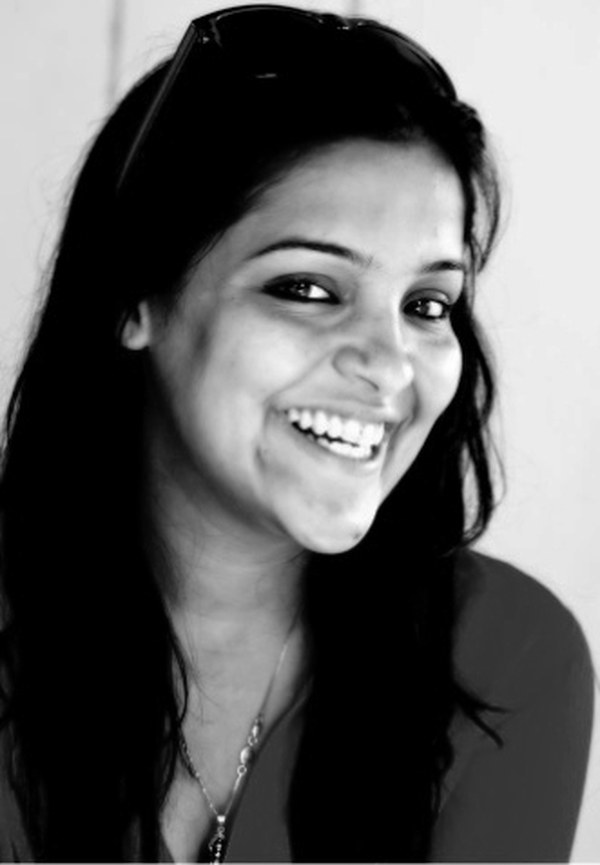
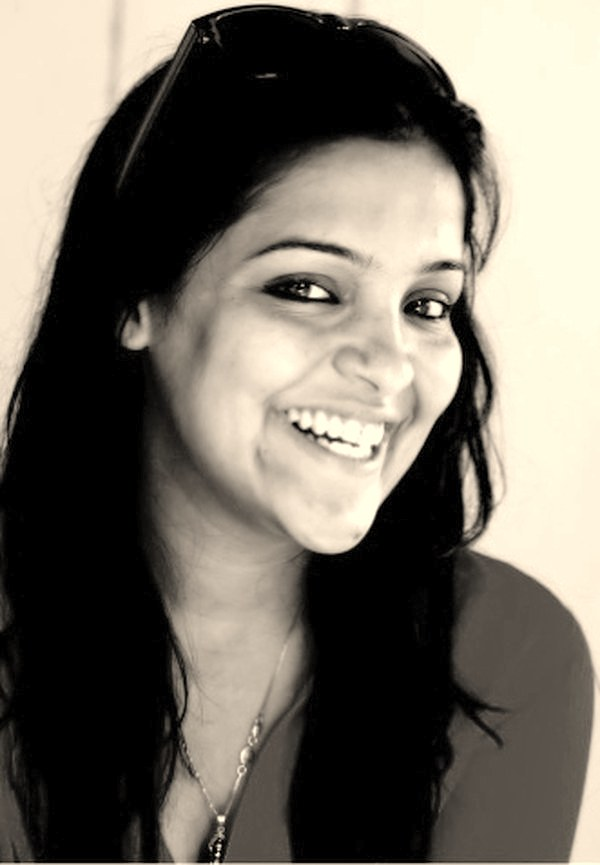
Add files via upload

diff --git a/index.html b/index.html
@@ -48,7 +48,6 @@
           <li><a href='p/residential.html'>Residential</a></li>
           <li><a href='p/institutional.html'>Institutional</a></li>
           <li><a href='p/interior.html'>Interior</a></li>
-          <li><a href='p/other.html'>Other</a></li>
         </ul>
       </li>
       <li><a href='p/about.html'>About Us</a></li>
@@ -141,11 +140,10 @@
         <h2 class='h2 rv'>Our awesome <em>projects.</em></h2>
       </div>
       <div class='filters rv' role='tablist'>
-        <button class='chip on' data-f='all' type='button'>All<sup>17</sup></button>
-        <button class='chip' data-f='residential' type='button'>Residential<sup>8</sup></button>
-        <button class='chip' data-f='institutional' type='button'>Institutional<sup>4</sup></button>
-        <button class='chip' data-f='interior' type='button'>Interior<sup>4</sup></button>
-        <button class='chip' data-f='other' type='button'>Other<sup>1</sup></button>
+        <button class='chip on' data-f='all' type='button'>All<sup>20</sup></button>
+        <button class='chip' data-f='residential' type='button'>Residential<sup>4</sup></button>
+        <button class='chip' data-f='institutional' type='button'>Institutional<sup>10</sup></button>
+        <button class='chip' data-f='interior' type='button'>Interior<sup>6</sup></button>
       </div>
     </div>
     <div class='pgrid'>
@@ -169,14 +167,12 @@
       <button class='pcard' data-cat='interior' data-full='assets/img/mrpl-nd-1.jpg' data-gallery='assets/img/mrpl-nd-1.jpg|assets/img/mrpl-nd-2.jpg|assets/img/mrpl-nd-3.jpg|assets/img/mrpl-nd-4.jpg' data-title='MRPL, New Delhi' type='button'><img alt='MRPL, New Delhi' loading='lazy' src='assets/img/mrpl-nd-1-t.jpg'/><span class='pn'>18</span><span class='pcount'>4 photos</span><span class='pc'><i>Interior</i><b>MRPL, New Delhi</b></span></button>
       <button class='pcard' data-cat='interior' data-full='assets/img/nrl-1.jpg' data-gallery='assets/img/nrl-1.jpg|assets/img/nrl-2.jpg|assets/img/nrl-3.jpg|assets/img/nrl-4.jpg' data-title='NRL, Numaligarh Refinery' type='button'><img alt='NRL, Numaligarh Refinery' loading='lazy' src='assets/img/nrl-1-t.jpg'/><span class='pn'>19</span><span class='pcount'>4 photos</span><span class='pc'><i>Interior</i><b>NRL, Numaligarh Refinery</b></span></button>
       <button class='pcard' data-cat='interior' data-full='assets/img/aiu-1.jpg' data-gallery='assets/img/aiu-1.jpg|assets/img/aiu-2.jpg' data-title='Association of Indian Universities' type='button'><img alt='Association of Indian Universities' loading='lazy' src='assets/img/aiu-1-t.jpg'/><span class='pn'>20</span><span class='pcount'>2 photos</span><span class='pc'><i>Interior</i><b>Association of Indian Universities</b></span></button>
-      <button class='pcard' data-cat='other' data-full='assets/img/bro-mizoram.jpg' data-title='BRO, Mizoram' type='button'><img alt='BRO, Mizoram' loading='lazy' src='assets/img/bro-mizoram-t.jpg'/><span class='pn'>21</span><span class='pc'><i>Other</i><b>BRO, Mizoram</b></span></button>
     </div>
     <div class='explore'>
       <small>Explore all</small>
       <a class='arrow-link' href='p/residential.html'>Residential &#8594;</a>
       <a class='arrow-link' href='p/institutional.html'>Institutional &#8594;</a>
       <a class='arrow-link' href='p/interior.html'>Interior &#8594;</a>
-      <a class='arrow-link' href='p/other.html'>Other &#8594;</a>
     </div>
   </div>
 </section>

diff --git a/assets/style.css b/assets/style.css
@@ -146,7 +146,7 @@ button{font:inherit}
 .about-top{display:grid;grid-template-columns:1fr 1fr;gap:80px;align-items:end;margin-bottom:64px}
 .team{display:grid;grid-template-columns:repeat(3,1fr);gap:26px}
 .tcard .ph{overflow:hidden;aspect-ratio:3/4;background:var(--paper)}
-.tcard img{width:100%;height:100%;object-fit:cover;object-position:center top;filter:grayscale(1) contrast(1.05);transform:scale(1.03);transition:filter .7s,transform 1.2s var(--ease)}
+.tcard img{width:100%;height:100%;object-fit:cover;object-position:center top;transform:scale(1.03);transition:filter .7s,transform 1.2s var(--ease)}
 .tcard:hover img{filter:none;transform:scale(1.08)}
 .tcard h4{font:400 1.7rem/1.1 var(--serif);margin-top:20px}
 .tcard span{display:block;margin-top:8px;font:500 12px/1 var(--mono);letter-spacing:.14em;text-transform:uppercase;color:var(--clay)}

diff --git a/p/about.html b/p/about.html
@@ -46,7 +46,6 @@
           <li><a href='../p/residential.html'>Residential</a></li>
           <li><a href='../p/institutional.html'>Institutional</a></li>
           <li><a href='../p/interior.html'>Interior</a></li>
-          <li><a href='../p/other.html'>Other</a></li>
         </ul>
       </li>
       <li><a href='about.html'>About Us</a></li>

diff --git a/p/disclaimer.html b/p/disclaimer.html
@@ -46,7 +46,6 @@
           <li><a href='../p/residential.html'>Residential</a></li>
           <li><a href='../p/institutional.html'>Institutional</a></li>
           <li><a href='../p/interior.html'>Interior</a></li>
-          <li><a href='../p/other.html'>Other</a></li>
         </ul>
       </li>
       <li><a href='about.html'>About Us</a></li>

diff --git a/p/institutional.html b/p/institutional.html
@@ -46,7 +46,6 @@
           <li><a href='../p/residential.html'>Residential</a></li>
           <li><a href='../p/institutional.html'>Institutional</a></li>
           <li><a href='../p/interior.html'>Interior</a></li>
-          <li><a href='../p/other.html'>Other</a></li>
         </ul>
       </li>
       <li><a href='about.html'>About Us</a></li>

diff --git a/p/interior.html b/p/interior.html
@@ -46,7 +46,6 @@
           <li><a href='../p/residential.html'>Residential</a></li>
           <li><a href='../p/institutional.html'>Institutional</a></li>
           <li><a href='../p/interior.html'>Interior</a></li>
-          <li><a href='../p/other.html'>Other</a></li>
         </ul>
       </li>
       <li><a href='about.html'>About Us</a></li>

diff --git a/p/joinus.html b/p/joinus.html
@@ -46,7 +46,6 @@
           <li><a href='../p/residential.html'>Residential</a></li>
           <li><a href='../p/institutional.html'>Institutional</a></li>
           <li><a href='../p/interior.html'>Interior</a></li>
-          <li><a href='../p/other.html'>Other</a></li>
         </ul>
       </li>
       <li><a href='about.html'>About Us</a></li>

diff --git a/p/process.html b/p/process.html
@@ -46,7 +46,6 @@
           <li><a href='../p/residential.html'>Residential</a></li>
           <li><a href='../p/institutional.html'>Institutional</a></li>
           <li><a href='../p/interior.html'>Interior</a></li>
-          <li><a href='../p/other.html'>Other</a></li>
         </ul>
       </li>
       <li><a href='about.html'>About Us</a></li>

diff --git a/p/residential.html b/p/residential.html
@@ -46,7 +46,6 @@
           <li><a href='../p/residential.html'>Residential</a></li>
           <li><a href='../p/institutional.html'>Institutional</a></li>
           <li><a href='../p/interior.html'>Interior</a></li>
-          <li><a href='../p/other.html'>Other</a></li>
         </ul>
       </li>
       <li><a href='about.html'>About Us</a></li>

diff --git a/404.html b/404.html
@@ -29,7 +29,6 @@
           <li><a href='/p/residential.html'>Residential</a></li>
           <li><a href='/p/institutional.html'>Institutional</a></li>
           <li><a href='/p/interior.html'>Interior</a></li>
-          <li><a href='/p/other.html'>Other</a></li>
         </ul>
       </li>
       <li><a href='/p/about.html'>About Us</a></li>
